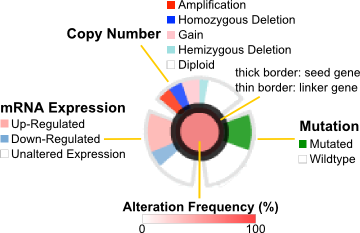
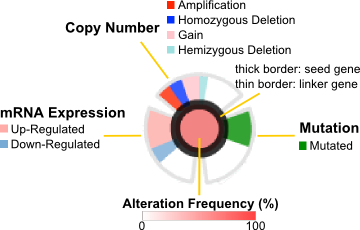
- corrected gene legend (fixed issue 206) - network dialogs are now closed upon tab change (fixed issue 209) - removed invalid (undefined) links for PubMed ids on the edge inspector. - centered edge inspector content.

diff --git a/portal/web/js/network/network-ui.js b/portal/web/js/network/network-ui.js
@@ -116,17 +116,42 @@ function initNetworkUI(vis)
 	_initSliders();
 	_initTooltipStyle();
 	
-	// init tabs
+	// add listener for the main tabs to hide dialogs when user selects
+	// a tab other than the Network tab
+	$("#tabs").bind("tabsshow", hideDialogs);
+	
+	// this is required to prevent hideDialogs function to be invoked
+	// when clicked on a network tab
+	$("#network_tabs").bind("tabsshow", false);
+	
+	// init tabs	
 	$("#network_tabs").tabs();
+	
 	_initGenesTab();
 	_refreshGenesTab();
 	_refreshRelationsTab();
-
+	
 	// adjust things for IE
 	_adjustIE();
 	
 	// make UI visible
 	_setVisibility(true);
+}
+
+/**
+ * Hides all dialogs upon selecting a tab other than the network tab.
+ */
+function hideDialogs(evt, ui)
+{
+	// get the index of the tab that is currently selected
+	// var selectIdx = $("#tabs").tabs("option", "selected");
+	
+	// close all dialogs
+	$("#settings_dialog").dialog("close");
+	$("#node_inspector").dialog("close");
+	$("#edge_inspector").dialog("close");
+	$("#node_legend").dialog("close");
+	$("#edge_legend").dialog("close");
 }
 
 /**
@@ -637,6 +662,13 @@ function _addPubMedIds(data, summaryEdge)
 	for (var i = 0; i < ids.length; i++)
 	{
 		link = _resolveXref(ids[i]);
+		
+		if (link.href == "#")
+		{
+			// skip unknown sources
+			continue;
+		}
+		
 		xref = '<a href="' + link.href + '" target="_blank">' +
 			link.pieces[1] + '</a>';
 		
@@ -867,7 +899,7 @@ function updateEdges()
 	
     // filter disconnected nodes if necessary
     _filterDisconnected();
-	
+    
 	// visualization changed, perform layout if necessary
 	_visChanged();
 }

diff --git a/portal/web/css/network/network_ui.css b/portal/web/css/network/network_ui.css
@@ -291,7 +291,14 @@
  * ################### Edge inspector #####################
  * ########################################################
  */
- 
+
+#edge_inspector .data, #edge_inspector .xref
+{
+	/* centering the tables */
+	margin-left: auto;
+	margin-right: auto;
+}
+
 #edge_inspector .top-row td
 {
 	border-top: 1px solid #aaaaaa;
